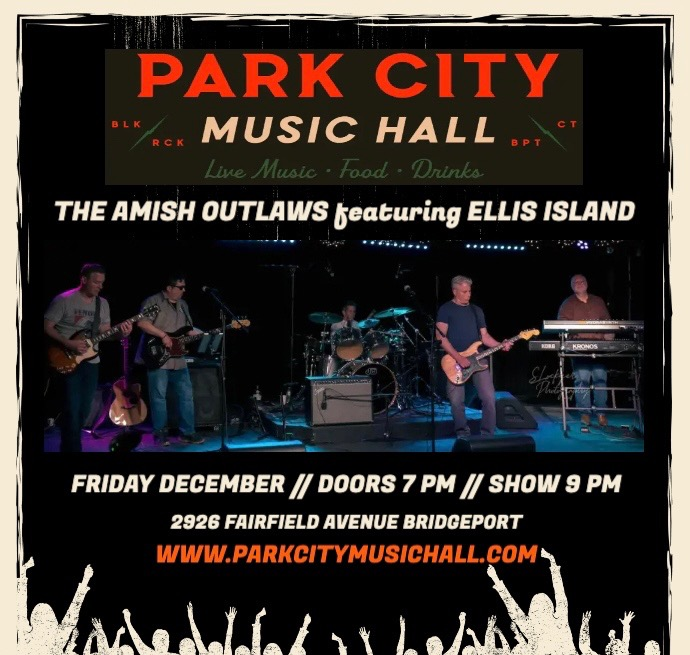
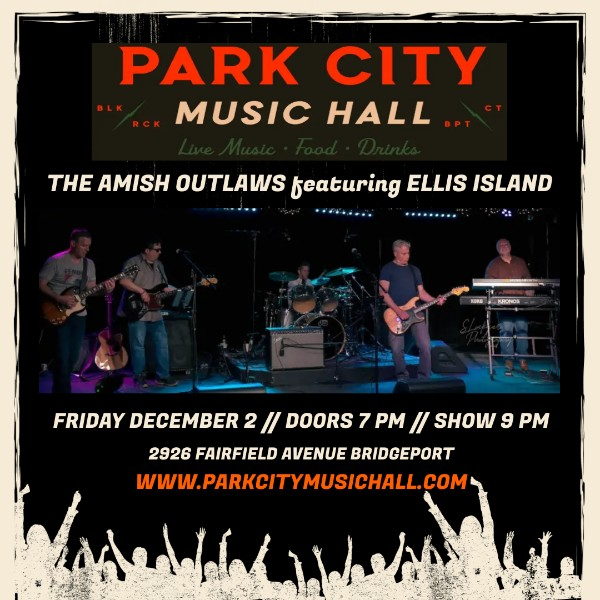
update

diff --git a/schedule.md b/schedule.md
@@ -20,7 +20,7 @@ title: Schedule
   Tickets are $21 in advance, $26 day of the show.
 
 <img class="myImg schedule"
-     src="images/posters/amish_600.jpeg"
+     src="images/posters/2022-12-02-park_city_amish_outlaws.jpeg"
      alt="Poster: The Amish Outlaws featuring Ellis Island"
      width="200" onclick="modal_image(this);"/>
 
